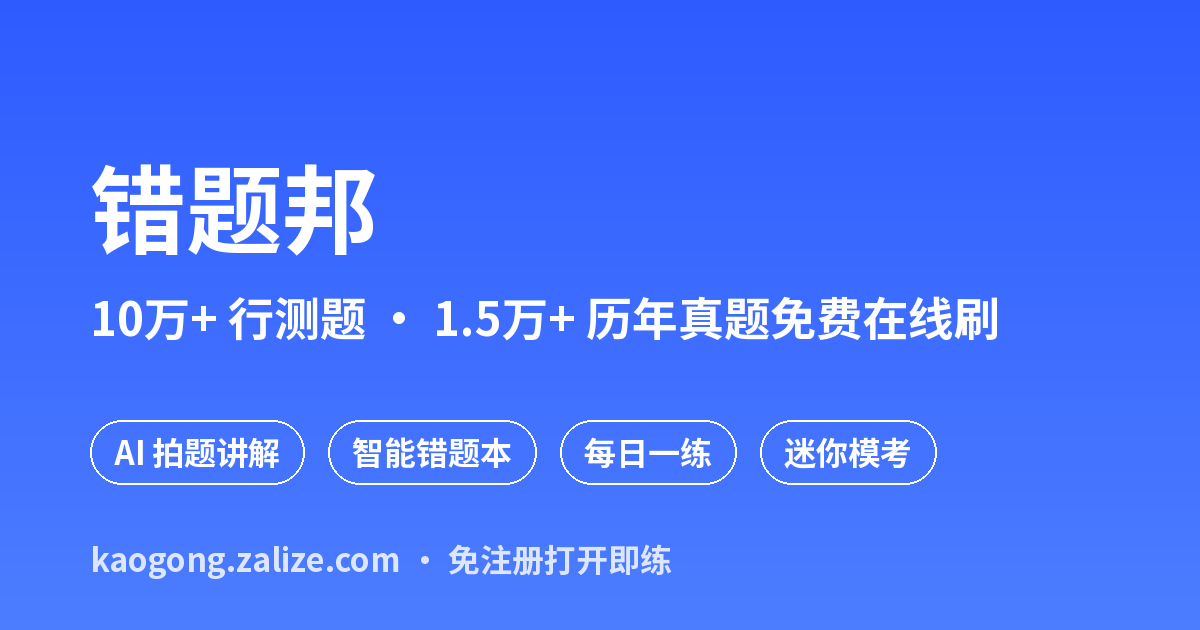
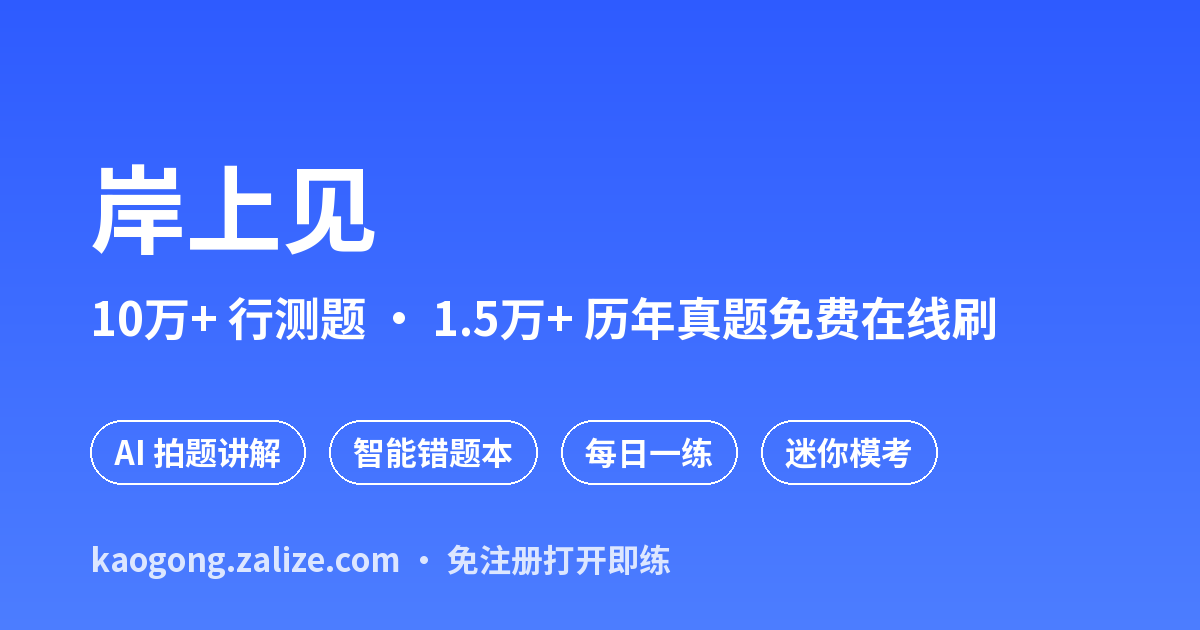
rename: 错题邦 → 岸上见（全端品牌名替换 + og-card 重生成 + 测试/SKILL/handoff 同步）

diff --git a/frontend-uni/index.html b/frontend-uni/index.html
@@ -2,10 +2,10 @@
 <html lang="zh-CN">
   <head>
     <meta charset="UTF-8" />
-    <meta name="description" content="错题邦（原上岸错题）：10万+行测题 · 1.5万+历年真题免费在线练习，含花生十三讲解、错题本、迷你模考与打卡组队" />
+    <meta name="description" content="岸上见（原错题邦）：10万+行测题 · 1.5万+历年真题免费在线练习，含花生十三讲解、错题本、迷你模考与打卡组队" />
     <meta property="og:type" content="website" />
-    <meta property="og:site_name" content="错题邦" />
-    <meta property="og:title" content="错题邦 - 公务员考试行测真题免费在线刷题 · 错题本 · 模考" />
+    <meta property="og:site_name" content="岸上见" />
+    <meta property="og:title" content="岸上见 - 公务员考试行测真题免费在线刷题 · 错题本 · 模考" />
     <meta property="og:description" content="Zalize 考公考编线：10万+行测题 · 1.5万+历年真题免费在线练习，含讲解、错题本、迷你模考与打卡组队" />
     <meta property="og:url" content="https://kaogong.zalize.com/" />
     <meta property="og:image" content="https://kaogong.zalize.com/static/og-card.png" />
@@ -15,8 +15,8 @@
       {
         "@context": "https://schema.org",
         "@type": "SoftwareApplication",
-        "name": "错题邦",
-        "alternateName": "上岸错题",
+        "name": "岸上见",
+        "alternateName": ["上岸错题", "错题邦", "考公错题助手"],
         "applicationCategory": "EducationalApplication",
         "operatingSystem": "Web",
         "url": "https://kaogong.zalize.com/",
@@ -39,7 +39,7 @@
     </script>
     <meta name="applicable-device" content="pc,mobile" />
     <!-- 构建时被 manifest.json h5.title 覆写，两处保持一致 -->
-    <title>错题邦 - 公务员考试行测真题免费在线刷题 · 错题本 · 模考</title>
+    <title>岸上见 - 公务员考试行测真题免费在线刷题 · 错题本 · 模考</title>
     <!--preload-links-->
     <!--app-context-->
   </head>
@@ -48,7 +48,7 @@
     <style>#kg-splash{position:fixed;inset:0;display:flex;flex-direction:column;align-items:center;justify-content:center;gap:12px;background:#fff}#kg-splash img{width:64px;height:64px}#kg-splash .t{font:600 18px/1.4 -apple-system,"PingFang SC","Microsoft YaHei",sans-serif;color:#111827}#kg-splash .s{font:400 17px/1.55 -apple-system,"PingFang SC","Microsoft YaHei",sans-serif;color:#6b7280;max-width:392px;padding:0 16px;text-align:center}#kg-splash .sp{width:22px;height:22px;margin-top:6px;border:2.5px solid #e5e7eb;border-top-color:#2563eb;border-radius:50%;animation:kgspin .8s linear infinite}@keyframes kgspin{to{transform:rotate(360deg)}}@media (prefers-color-scheme:dark){#kg-splash{background:#111827}#kg-splash .t{color:#f9fafb}#kg-splash .s{color:#9ca3af}#kg-splash .sp{border-color:#374151;border-top-color:#60a5fa}}#kg-splash.kg-splash-done{opacity:0;visibility:hidden;pointer-events:none;transition:opacity .15s,visibility .15s}#kg-splash.kg-splash-done .sp{animation:none}#kg-splash.kg-splash-fail .sp{display:none}#kg-splash .e{font:400 14px/1.5 -apple-system,"PingFang SC","Microsoft YaHei",sans-serif;color:#b91c1c;margin-top:6px}#kg-splash .rb{margin-top:10px;padding:8px 22px;border:0;border-radius:999px;background:#2563eb;color:#fff;font:500 15px/1 -apple-system,"PingFang SC","Microsoft YaHei",sans-serif;cursor:pointer}@media (prefers-color-scheme:dark){#kg-splash .e{color:#f87171}#kg-splash .rb{background:#3b82f6}}</style>
     <style>#kg-seo-nav{position:absolute;left:0;right:0;top:0;padding:16px;font:400 14px/1.8 -apple-system,"PingFang SC","Microsoft YaHei",sans-serif;color:#6b7280;text-align:center}#kg-seo-nav a{color:#2563eb;margin:0 6px;text-decoration:none}#app:not(:empty)~#kg-seo-nav{display:none}</style>
     <nav id="kg-seo-nav" aria-label="题库导航"><a href="/tiku/">行测题库</a><a href="/tiku/yanyu/">言语理解</a><a href="/tiku/panduan/">判断推理</a><a href="/tiku/shuliang/">数量关系</a><a href="/tiku/ziliao/">资料分析</a><a href="/tiku/changshi/">常识判断</a><a href="/tiku/shenlun/">申论</a><a href="/tiku/papers/">历年真题卷</a><a href="/tiku/daily/">每日一练</a></nav>
-    <div id="kg-splash"><img src="/static/brand/kaogong.svg" alt="" /><div class="t">错题邦</div><div class="s">免费刷 10万+ 行测题 · 1.5万+ 历年真题，拍题 AI 讲解 · 错题本按遗忘曲线复习 · 迷你模考</div><div class="sp"></div></div>
+    <div id="kg-splash"><img src="/static/brand/kaogong.svg" alt="" /><div class="t">岸上见</div><div class="s">免费刷 10万+ 行测题 · 1.5万+ 历年真题，拍题 AI 讲解 · 错题本按遗忘曲线复习 · 迷你模考</div><div class="sp"></div></div>
     <script>
       (function () {
         var fired = false

diff --git a/frontend-uni/src/pages/profile/profile.vue b/frontend-uni/src/pages/profile/profile.vue
@@ -107,7 +107,7 @@
           <wd-cell title="反馈与纠错" is-link clickable @click="feedback">
             <template #icon><view class="cell-ico"><l-icon name="message-circle" :size="20" tone="warn" /></view></template>
           </wd-cell>
-          <wd-cell title="关于" value="错题邦" is-link clickable @click="about">
+          <wd-cell title="关于" value="岸上见" is-link clickable @click="about">
             <template #icon><view class="cell-ico"><l-icon name="info" :size="20" tone="warn" /></view></template>
           </wd-cell>
         </wd-cell-group>
@@ -125,7 +125,7 @@
             <text class="zl-link" @click="zlOpen('https://career.zalize.com/terms/')">服务条款</text>
             <text class="zl-link" @click="zlOpen('mailto:support@zalize.com')">联系我们</text>
           </view>
-          <text class="zl-copy">© 2026 Zalize 上岸 · 错题邦</text>
+          <text class="zl-copy">© 2026 Zalize 上岸 · 岸上见</text>
         </view>
       </template>
     </kg-two-col>
@@ -572,7 +572,7 @@ export default {
       // #endif
     },
     about() {
-      uni.showModal({ title: '错题邦', content: '行测刷题 · 错题本 · AI 讲解 · 全真模考\nkaogong.zalize.com', showCancel: false, confirmText: '知道了' });
+      uni.showModal({ title: '岸上见', content: '行测刷题 · 错题本 · AI 讲解 · 全真模考\nkaogong.zalize.com', showCancel: false, confirmText: '知道了' });
     },
     doLogout() {
       uni.showModal({

diff --git a/frontend-uni/src/pages/practice/practice.vue b/frontend-uni/src/pages/practice/practice.vue
@@ -2443,7 +2443,7 @@ export default {
     shareResult() {
       if (this._dailyDoneDate && (this.dailyStats || this.dailyErr)) {
         const ds = this.dailyStats || {};
-        let txt = '我完成了错题邦 ' + this._dailyDoneDate + ' 每日一练（全站同题 ' + this.items.length + ' 题），答对 ' + this.right + ' 题';
+        let txt = '我完成了岸上见 ' + this._dailyDoneDate + ' 每日一练（全站同题 ' + this.items.length + ' 题），答对 ' + this.right + ' 题';
         txt += dailySetShareTail(ds);
         if (ds.streak >= 2) txt += '，已连续参与 ' + ds.streak + ' 天';
         txt += '！同题挑战我：https://kaogong.zalize.com/#/pages/practice/practice?daily=1&src=share';
@@ -2458,7 +2458,7 @@ export default {
       const paperBase = paperShareText(this._ptitle, this.items.length, pct);
       let txt =
         paperBase ||
-        '我在错题邦刷了 ' + this.items.length + ' 道' + (this.lastModule ? this.modName(this.lastModule) : '行测') + '题，正确率 ' + pct + '%';
+        '我在岸上见刷了 ' + this.items.length + ' 道' + (this.lastModule ? this.modName(this.lastModule) : '行测') + '题，正确率 ' + pct + '%';
       if (this.bestStreak >= 3) txt += '，最高连对 ' + this.bestStreak + ' 题';
       txt += percentileShareTail(this.percentile);
       txt += paperBase ? '！也来练这套卷：https://kaogong.zalize.com/#/pkgA/exam/list' : '！一起来刷：https://kaogong.zalize.com';

diff --git a/backend/app/admin/index.html b/backend/app/admin/index.html
@@ -4,7 +4,7 @@
 <meta charset="utf-8" />
 <meta name="viewport" content="width=device-width, initial-scale=1" />
 <meta name="robots" content="noindex" />
-<title>错题邦 · 管理后台</title>
+<title>岸上见 · 管理后台</title>
 <link rel="stylesheet" href="/admin/static/admin.css?v=r38" />
 </head>
 <body>
@@ -12,7 +12,7 @@
 <!-- 登录页 -->
 <div id="login" class="login-wrap hidden">
   <div class="login-card">
-    <div class="logo"><span class="mark">岸</span>错题邦 · 管理台</div>
+    <div class="logo"><span class="mark">岸</span>岸上见 · 管理台</div>
     <div class="sub">请输入管理令牌登录后台</div>
     <div class="fld"><div class="lb">管理令牌</div>
       <input id="login-token" class="ipt" type="password" style="width:100%" placeholder="X-Admin-Token" autocomplete="current-password" />
@@ -25,7 +25,7 @@
 <!-- 应用壳：侧边导航 + 顶栏 + 内容区 -->
 <div id="app" class="layout hidden">
   <aside class="side">
-    <div class="logo"><span class="mark">岸</span><span class="name">错题邦 · 管理台</span></div>
+    <div class="logo"><span class="mark">岸</span><span class="name">岸上见 · 管理台</span></div>
     <div class="grp">概览</div>
     <nav aria-label="概览">
       <a data-page="dashboard" href="#/dashboard" title="数据看板"><span class="ico">📊</span><span class="txt">数据看板</span></a>

diff --git a/miniapp-native/miniprogram/pages/social/poster.ts b/miniapp-native/miniprogram/pages/social/poster.ts
@@ -86,7 +86,7 @@ function drawPoster(ctx: Ctx2D, d: PosterData): void {
   ctx.textBaseline = 'top';
   ctx.fillStyle = 'rgba(255,255,255,0.85)';
   ctx.font = '24px sans-serif';
-  ctx.fillText(d.badge ? '错题邦 · 里程碑徽章' : '错题邦 · 学习打卡', pad, 52);
+  ctx.fillText(d.badge ? '岸上见 · 里程碑徽章' : '岸上见 · 学习打卡', pad, 52);
 
   ctx.fillStyle = '#ffffff';
   if (d.badge) {
@@ -153,7 +153,7 @@ function drawPoster(ctx: Ctx2D, d: PosterData): void {
   // 底部：引导 + 站点
   ctx.fillStyle = 'rgba(255,255,255,0.9)';
   ctx.font = '24px sans-serif';
-  ctx.fillText('搜一搜「错题邦」', pad, H - 190);
+  ctx.fillText('搜一搜「岸上见」', pad, H - 190);
   ctx.fillText('AI 刷题上岸 →', pad, H - 152);
   ctx.fillStyle = 'rgba(255,255,255,0.65)';
   ctx.font = '20px sans-serif';
@@ -240,6 +240,6 @@ Page({
   },
 
   onShareAppMessage(): WechatMiniprogram.Page.ICustomShareContent {
-    return { title: '我在错题邦打卡刷题，一起上岸！', path: '/pages/home/home' };
+    return { title: '我在岸上见打卡刷题，一起上岸！', path: '/pages/home/home' };
   },
 });

diff --git a/frontend-uni/src/pkgA/team/team.vue b/frontend-uni/src/pkgA/team/team.vue
@@ -266,7 +266,7 @@ export default {
       const t = this.panel.team;
       trackEvent('team_invite_copy', 'team', t.invite_code);
       uni.setClipboardData({
-        data: `我在错题邦建了刷题小队「${t.name}」，一起打卡刷题冲上岸！邀请码 ${t.invite_code}，点链接直接加入：${this.inviteUrl()}`,
+        data: `我在岸上见建了刷题小队「${t.name}」，一起打卡刷题冲上岸！邀请码 ${t.invite_code}，点链接直接加入：${this.inviteUrl()}`,
         success: () => uni.showToast({ title: '邀请链接已复制，发给考友吧', icon: 'none' }),
       });
     },
@@ -288,7 +288,7 @@ export default {
     },
     remind(m) {
       uni.setClipboardData({
-        data: `「${m.nickname}」今天还没刷题哦！我在错题邦小队「${this.panel.team.name}」等你打卡，别掉队：${this.inviteUrl()}`,
+        data: `「${m.nickname}」今天还没刷题哦！我在岸上见小队「${this.panel.team.name}」等你打卡，别掉队：${this.inviteUrl()}`,
         success: () => uni.showToast({ title: '催打卡文案已复制，发给 TA 吧', icon: 'none' }),
       });
     },

diff --git a/frontend-uni/src/pkgA/social/poster.vue b/frontend-uni/src/pkgA/social/poster.vue
@@ -80,7 +80,7 @@ function drawPoster(ctx, d) {
   ctx.textBaseline = 'top';
   ctx.fillStyle = 'rgba(255,255,255,0.85)';
   ctx.font = '24px sans-serif';
-  ctx.fillText(d.badge ? '错题邦 · 里程碑徽章' : '错题邦 · 学习打卡', pad, 52);
+  ctx.fillText(d.badge ? '岸上见 · 里程碑徽章' : '岸上见 · 学习打卡', pad, 52);
 
   ctx.fillStyle = '#ffffff';
   if (d.badge) {
@@ -206,7 +206,7 @@ function drawExamPoster(ctx, d) {
   ctx.textBaseline = 'top';
   ctx.fillStyle = 'rgba(255,255,255,0.85)';
   ctx.font = '24px sans-serif';
-  ctx.fillText('错题邦 · 模考成绩单', pad, 52);
+  ctx.fillText('岸上见 · 模考成绩单', pad, 52);
 
   ctx.fillStyle = '#ffffff';
   ctx.font = '600 34px sans-serif';
@@ -271,7 +271,7 @@ export default {
   },
   // #ifdef MP-WEIXIN
   onShareAppMessage() {
-    return { title: '我在错题邦打卡刷题，一起上岸！', path: '/pages/practice/practice' };
+    return { title: '我在岸上见打卡刷题，一起上岸！', path: '/pages/practice/practice' };
   },
   // #endif
   computed: {

diff --git a/miniapp-native/miniprogram/pages/team/panel.ts b/miniapp-native/miniprogram/pages/team/panel.ts
@@ -107,7 +107,7 @@ Page({
   inviteText(): string {
     const t = this.data.panel!.team;
     const url = `${SITE}/#/pages/team/join?code=${t.invite_code}`;
-    return `我在错题邦建了刷题小队「${t.name}」，一起打卡刷题冲上岸！邀请码 ${t.invite_code}，点链接直接加入：${url}`;
+    return `我在岸上见建了刷题小队「${t.name}」，一起打卡刷题冲上岸！邀请码 ${t.invite_code}，点链接直接加入：${url}`;
   },
 
   onCopyInvite() {
@@ -149,7 +149,7 @@ Page({
     if (!m) return;
     const url = `${SITE}/#/pages/team/join?code=${p.team.invite_code}`;
     wx.setClipboardData({
-      data: `「${m.nickname}」今天还没刷题哦！我在错题邦小队「${p.team.name}」等你打卡，别掉队：${url}`,
+      data: `「${m.nickname}」今天还没刷题哦！我在岸上见小队「${p.team.name}」等你打卡，别掉队：${url}`,
       success: () => wx.showToast({ title: '催打卡文案已复制，发给 TA 吧', icon: 'none' }),
     });
   },

diff --git a/frontend-uni/src/pkgA/share/share-q.vue b/frontend-uni/src/pkgA/share/share-q.vue
@@ -77,7 +77,7 @@
       </template>
 
       <view class="reg-tip">
-        <kg-button variant="text" size="md" @click="goLogin">登录 / 注册错题邦，10万+ 题库免费刷</kg-button>
+        <kg-button variant="text" size="md" @click="goLogin">登录 / 注册岸上见，10万+ 题库免费刷</kg-button>
       </view>
     </template>
   </view>
@@ -165,7 +165,7 @@ export default {
         if (d.q_stats) this.qStats = d.q_stats;
         this.teamInvite = d.team_invite || null;
         this.startTs = Date.now();
-        uni.setNavigationBarTitle({ title: `${d.from_name} 考了你一道${d.question.submodule || modName(d.question.module)}题，你能做对吗？- 错题邦` });
+        uni.setNavigationBarTitle({ title: `${d.from_name} 考了你一道${d.question.submodule || modName(d.question.module)}题，你能做对吗？- 岸上见` });
       } catch (e) {
         this.errMsg = e.message || '分享不存在或已过期';
       }

diff --git a/frontend-uni/src/pkgA/share/pk-result.vue b/frontend-uni/src/pkgA/share/pk-result.vue
@@ -54,7 +54,7 @@
       </kg-card>
 
       <view class="reg-tip">
-        <kg-button variant="text" size="md" @click="goLogin">登录 / 注册错题邦，10万+ 题库免费刷</kg-button>
+        <kg-button variant="text" size="md" @click="goLogin">登录 / 注册岸上见，10万+ 题库免费刷</kg-button>
       </view>
 
       <kg-action-bar layout="actions" primary-text="发起我的 PK 对局" @primary="goChallenge" />
@@ -111,7 +111,7 @@ export default {
         const d = await pkResult(this.rid);
         this.d = d;
         uni.setNavigationBarTitle({
-          title: `${this.creatorName} vs ${this.opponentName} 的答题 PK 战绩，不服来战！- 错题邦`,
+          title: `${this.creatorName} vs ${this.opponentName} 的答题 PK 战绩，不服来战！- 岸上见`,
         });
       } catch (e) {
         this.errMsg = e.message || '战绩不存在或对局未结束';

diff --git a/miniapp-native/miniprogram/pkgGrow/weekly-report/weekly-report.ts b/miniapp-native/miniprogram/pkgGrow/weekly-report/weekly-report.ts
@@ -69,7 +69,7 @@ function drawShare(ctx: Ctx2D, r: WeeklyReportResp): void {
   ctx.textBaseline = 'top';
   ctx.fillStyle = 'rgba(255,255,255,0.85)';
   ctx.font = '24px sans-serif';
-  ctx.fillText('错题邦 · 周学习报告', pad, 52);
+  ctx.fillText('岸上见 · 周学习报告', pad, 52);
   ctx.fillStyle = '#fff';
   ctx.font = '800 52px sans-serif';
   ctx.fillText(r.range, pad, 100);
@@ -288,7 +288,7 @@ Page({
   onShareAppMessage(): WechatMiniprogram.Page.ICustomShareContent {
     const r = this.data.r;
     return {
-      title: r ? `我的周学习报告：${r.range} 刷题 ${r.summary ? r.summary.n : 0} 题` : '错题邦 · 周学习报告',
+      title: r ? `我的周学习报告：${r.range} 刷题 ${r.summary ? r.summary.n : 0} 题` : '岸上见 · 周学习报告',
       path: '/pages/home/home',
     };
   },

diff --git a/frontend-uni/tests/paper-continue.test.js b/frontend-uni/tests/paper-continue.test.js
@@ -105,8 +105,8 @@ describe('R364 paperFinishState 完成页归卷', () => {
 
 describe('R365 paperShareText 按卷分享基句', () => {
   it('合法卷名+n+pct 生成带卷名基句（trim）', () => {
-    expect(paperShareText('2015年新疆卷', 38, 87)).toBe('我在错题邦练完了「2015年新疆卷」全卷 38 题，正确率 87%');
-    expect(paperShareText('  卷名  ', 10, 0)).toBe('我在错题邦练完了「卷名」全卷 10 题，正确率 0%');
+    expect(paperShareText('2015年新疆卷', 38, 87)).toBe('我在岸上见练完了「2015年新疆卷」全卷 38 题，正确率 87%');
+    expect(paperShareText('  卷名  ', 10, 0)).toBe('我在岸上见练完了「卷名」全卷 10 题，正确率 0%');
   });
 
   it('无卷名/空白/非字符串 fail-closed 返回 null', () => {
